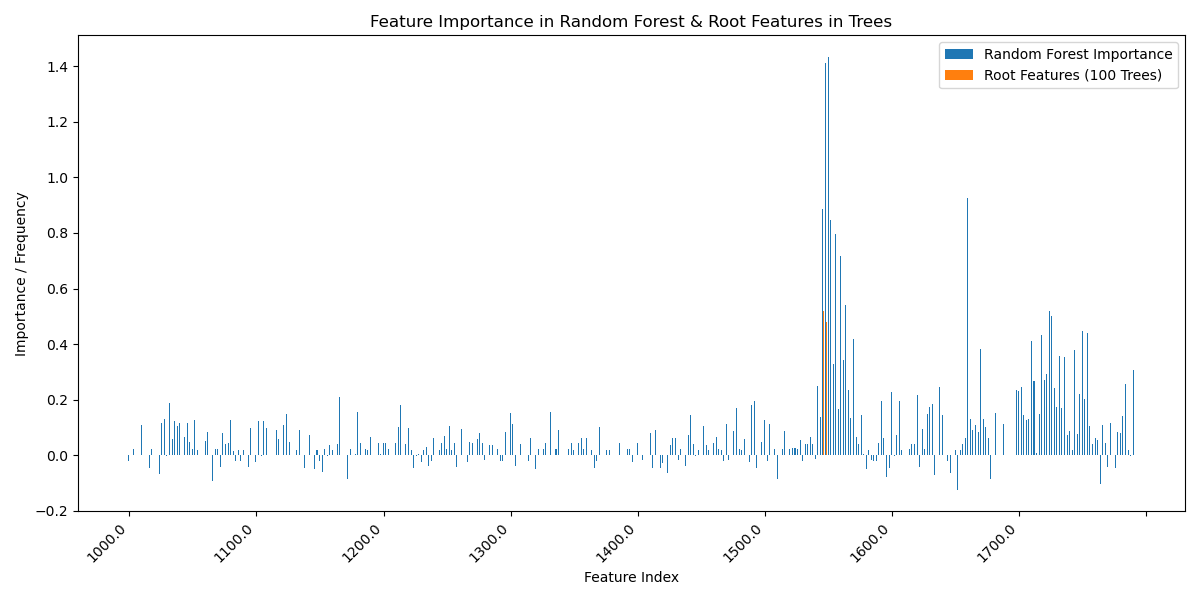
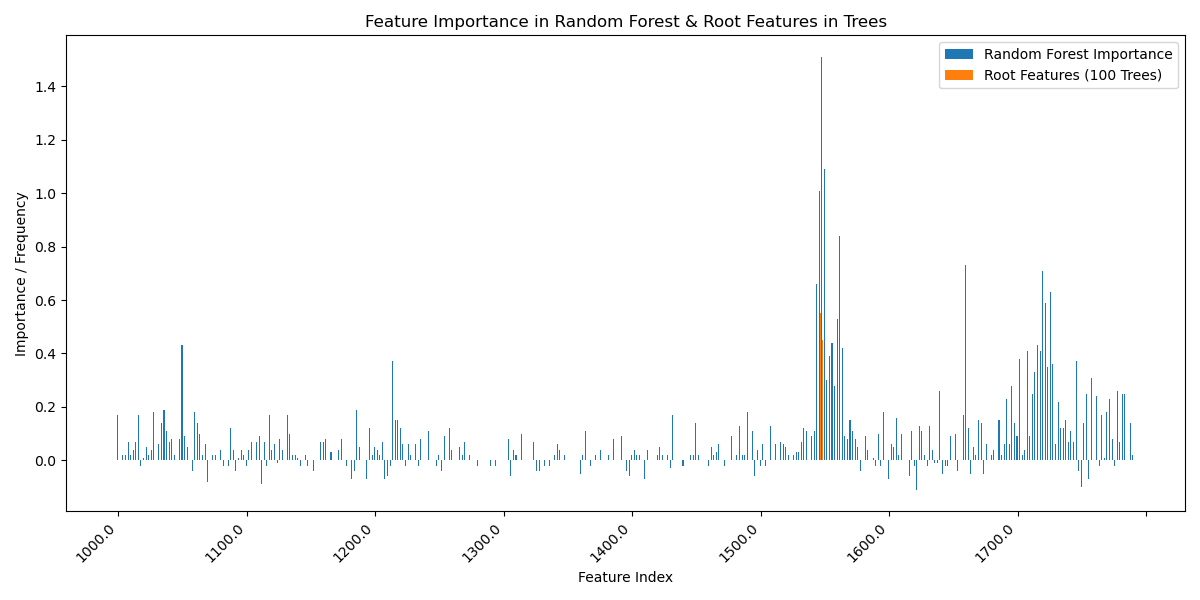
Saved the 15 most important features from the RF model and their frequency in the root of non random trees in a table

diff --git a/Trees and Forests/hw_tree.py b/Trees and Forests/hw_tree.py
@@ -1,5 +1,6 @@
 import csv
 import numpy as np
+import pandas as pd
 import random
 import time
 from tqdm import tqdm
@@ -356,6 +357,7 @@ def plot_variable_importance(X, y, feature_names):
     print(f"⌛ RF with 100 estimations built in {build_time:.2f} seconds")
 
     importances = model.importance()
+    importances = np.round(importances, 2)
 
     # train 100 non-random trees on randomized data and collect root features
     print('Collecting root features...')
@@ -369,26 +371,44 @@ def plot_variable_importance(X, y, feature_names):
         if tree_model.root and 'feature' in tree_model.root:
             root_features[tree_model.root['feature']] += 1
 
-    root_features /= 100  # convert to frequency
+    root_features = np.round(root_features / 100, 2)
+
+    # for tabular representation
+    feature_data = pd.DataFrame({
+        'Feature': feature_names,
+        'RF Importance': importances,
+        'Root Frequency': root_features
+    })
+
+    # sort by RF importance and select top 15 features
+    top_features = feature_data.sort_values(by='RF Importance', ascending=False).head(15)
+    print("Top 15 Features:")
+    print(top_features.to_string(index=False))
+
+    fig, ax = plt.subplots(figsize=(6, 6))
+    ax.axis('tight')
+    ax.axis('off')
+    table = ax.table(cellText=top_features.values,
+                     colLabels=top_features.columns,
+                     cellLoc='center', loc='center')
+    table.auto_set_font_size(False)
+    table.set_fontsize(10)
+    table.scale(0.8, 1.2)
+    plt.savefig('visualizations/variable_importance_table.png')
 
     plt.figure(figsize=(12, 6))
     indices = np.arange(X.shape[1])
-
     plt.bar(indices - 0.2, importances, width=0.4, label='Random Forest Importance')
     plt.bar(indices + 0.2, root_features, width=0.4, label='Root Features (100 Trees)')
 
     plt.xlabel('Feature Index')
     plt.ylabel('Importance / Frequency')
     plt.title('Feature Importance in Random Forest & Root Features in Trees')
-
     plt.xticks(indices, feature_names, rotation=45, ha='right')
     plt.gca().xaxis.set_major_locator(MaxNLocator(integer=True, prune='both'))
-
     plt.legend()
     plt.tight_layout()
-
     plt.savefig('visualizations/variable_importance.png')
-
     plt.show()
 
 
@@ -486,12 +506,12 @@ def train_and_compare(learn, test):
 if __name__ == "__main__":
     learn, test, legend = tki()
 
-    print("full", hw_tree_full(learn, test))
-    print("random forests", hw_randomforests(learn, test))
+    # print("full", hw_tree_full(learn, test))
+    # print("random forests", hw_randomforests(learn, test))
 
-    # print('variable importance', plot_variable_importance(learn[0], learn[1], legend))
+    print('variable importance', plot_variable_importance(learn[0], learn[1], legend))
     # print('misclassification vs trees', plot_misclassification_vs_trees(learn, test))
 
-    print('train and compare', train_and_compare(learn, test))
+    # print('train and compare', train_and_compare(learn, test))
 
 
